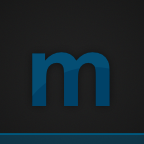
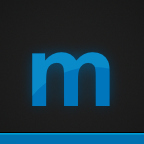
Launch screen

Changed region(s): [[0.1944, 0.3333, 0.8056, 0.75], [0.0, 0.9167, 1.0, 1.0]]

diff --git a/moodle/theme/mobilev1/layout/standard.php b/moodle/theme/mobilev1/layout/standard.php
@@ -9,6 +9,8 @@ echo $OUTPUT->doctype(); ?>
 <meta name="viewport" content="width=device-width, initial-scale=1.0, maximum-scale=1.0, user-scalable=no" />
 
 <link rel="apple-touch-icon-precomposed" href="<?php echo $OUTPUT->pix_url('touch-icon-iphone', 'theme')?>" />
+<link href="<?php echo $OUTPUT->pix_url('apple-touch-startup-image-iphone-retina', 'theme')?>" media="(device-width: 320px) and (-webkit-device-pixel-ratio: 2)" rel="apple-touch-startup-image">
+
 
 <title><?php echo $PAGE->title ?></title>
 <?php echo $OUTPUT->standard_head_html() ?>
